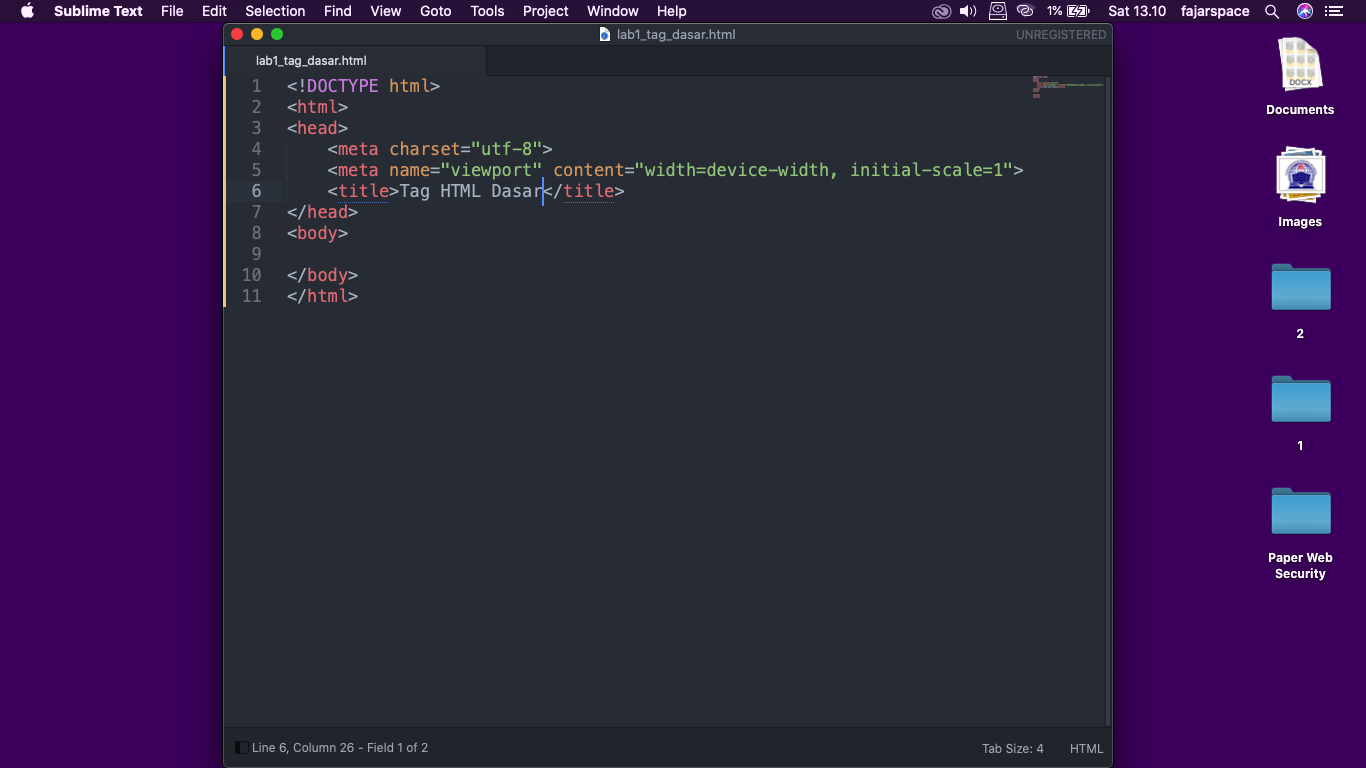
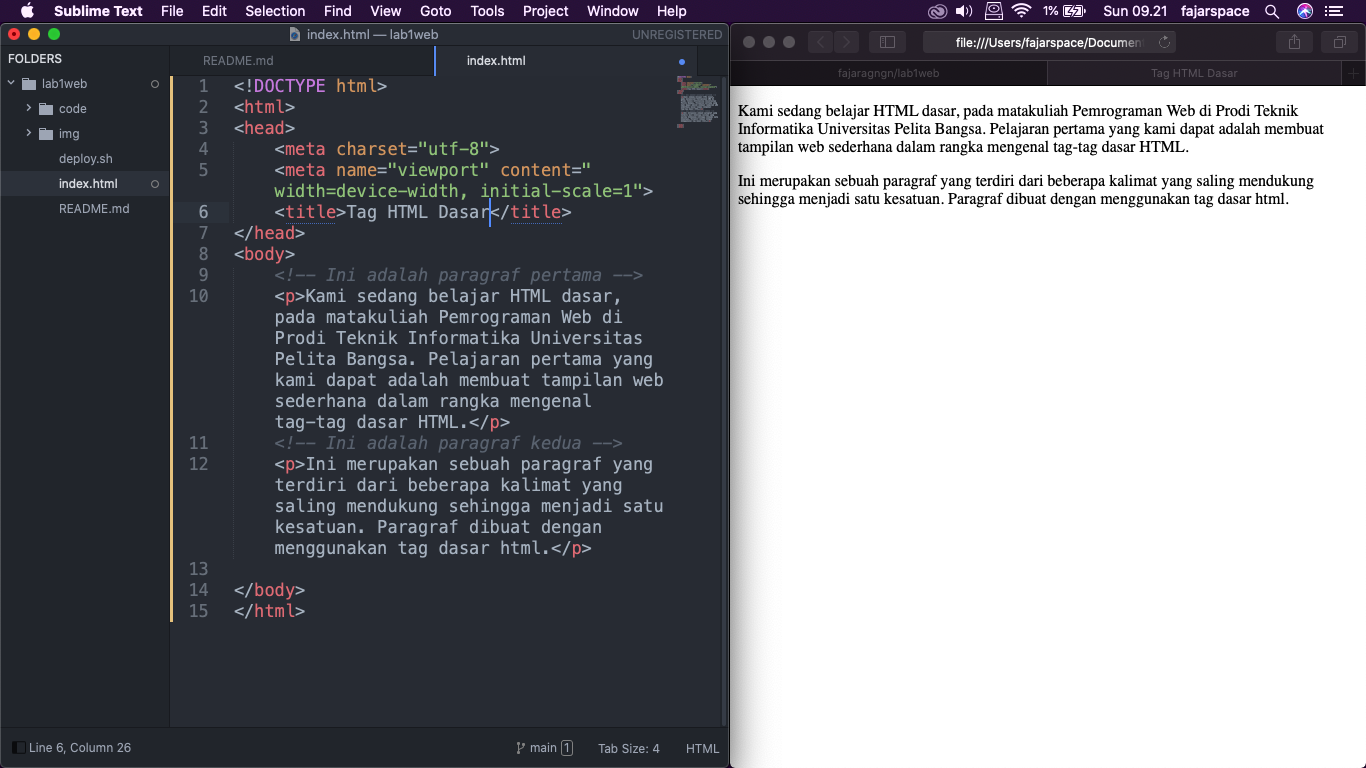
rebuilding site Sun Mar 13 09:31:23 WIB 2022

diff --git a/index.html b/index.html
@@ -1,0 +1,22 @@
+<!DOCTYPE html>
+<html>
+<head>
+	<meta charset="utf-8">
+	<meta name="viewport" content="width=device-width, initial-scale=1">
+	<title>Tag HTML Dasar</title>
+</head>
+<body>
+	<h1>Belajar HTML Dasar</h1>
+	<!-- Ini adalah paragraf pertama -->
+	<p>Kami sedang belajar <span style="background: yellow;">HTML dasar</span>, pada matakuliah <b>Pemrograman Web</b> di Prodi
+	Teknik Informatika <u>Universitas Pelita Bangsa.</u> Pelajaran pertama yang kami dapat
+	adalah membuat tampilan web sederhana dalam rangka mengenal tag-tag dasar
+	HTML.</p>
+	<h1>Paragraf pada HTML</h1>
+	<!-- Ini adalah paragraf kedua -->
+	<p>Ini merupakan sebuah paragraf yang terdiri dari beberapa kalimat yang saling
+	mendukung sehingga menjadi satu kesatuan. Paragraf dibuat dengan menggunakan
+	tag dasar html.</p>
+
+</body>
+</html>

diff --git a/README.md b/README.md
@@ -3,6 +3,13 @@ Membuka text editor Sublime text
 ![img1!](img/praktikum/1.png)
 
 ## Membuat Paragraf 
+![img2!](img/praktikum/2.png)
+
+## Menambahkan Judul
+![img3!](img/praktikum/3.png)
+
+## Memformat Text
+![img4!](img/praktikum/4.png)
 
 
 ## Jawab Pertanyaan Berikut
